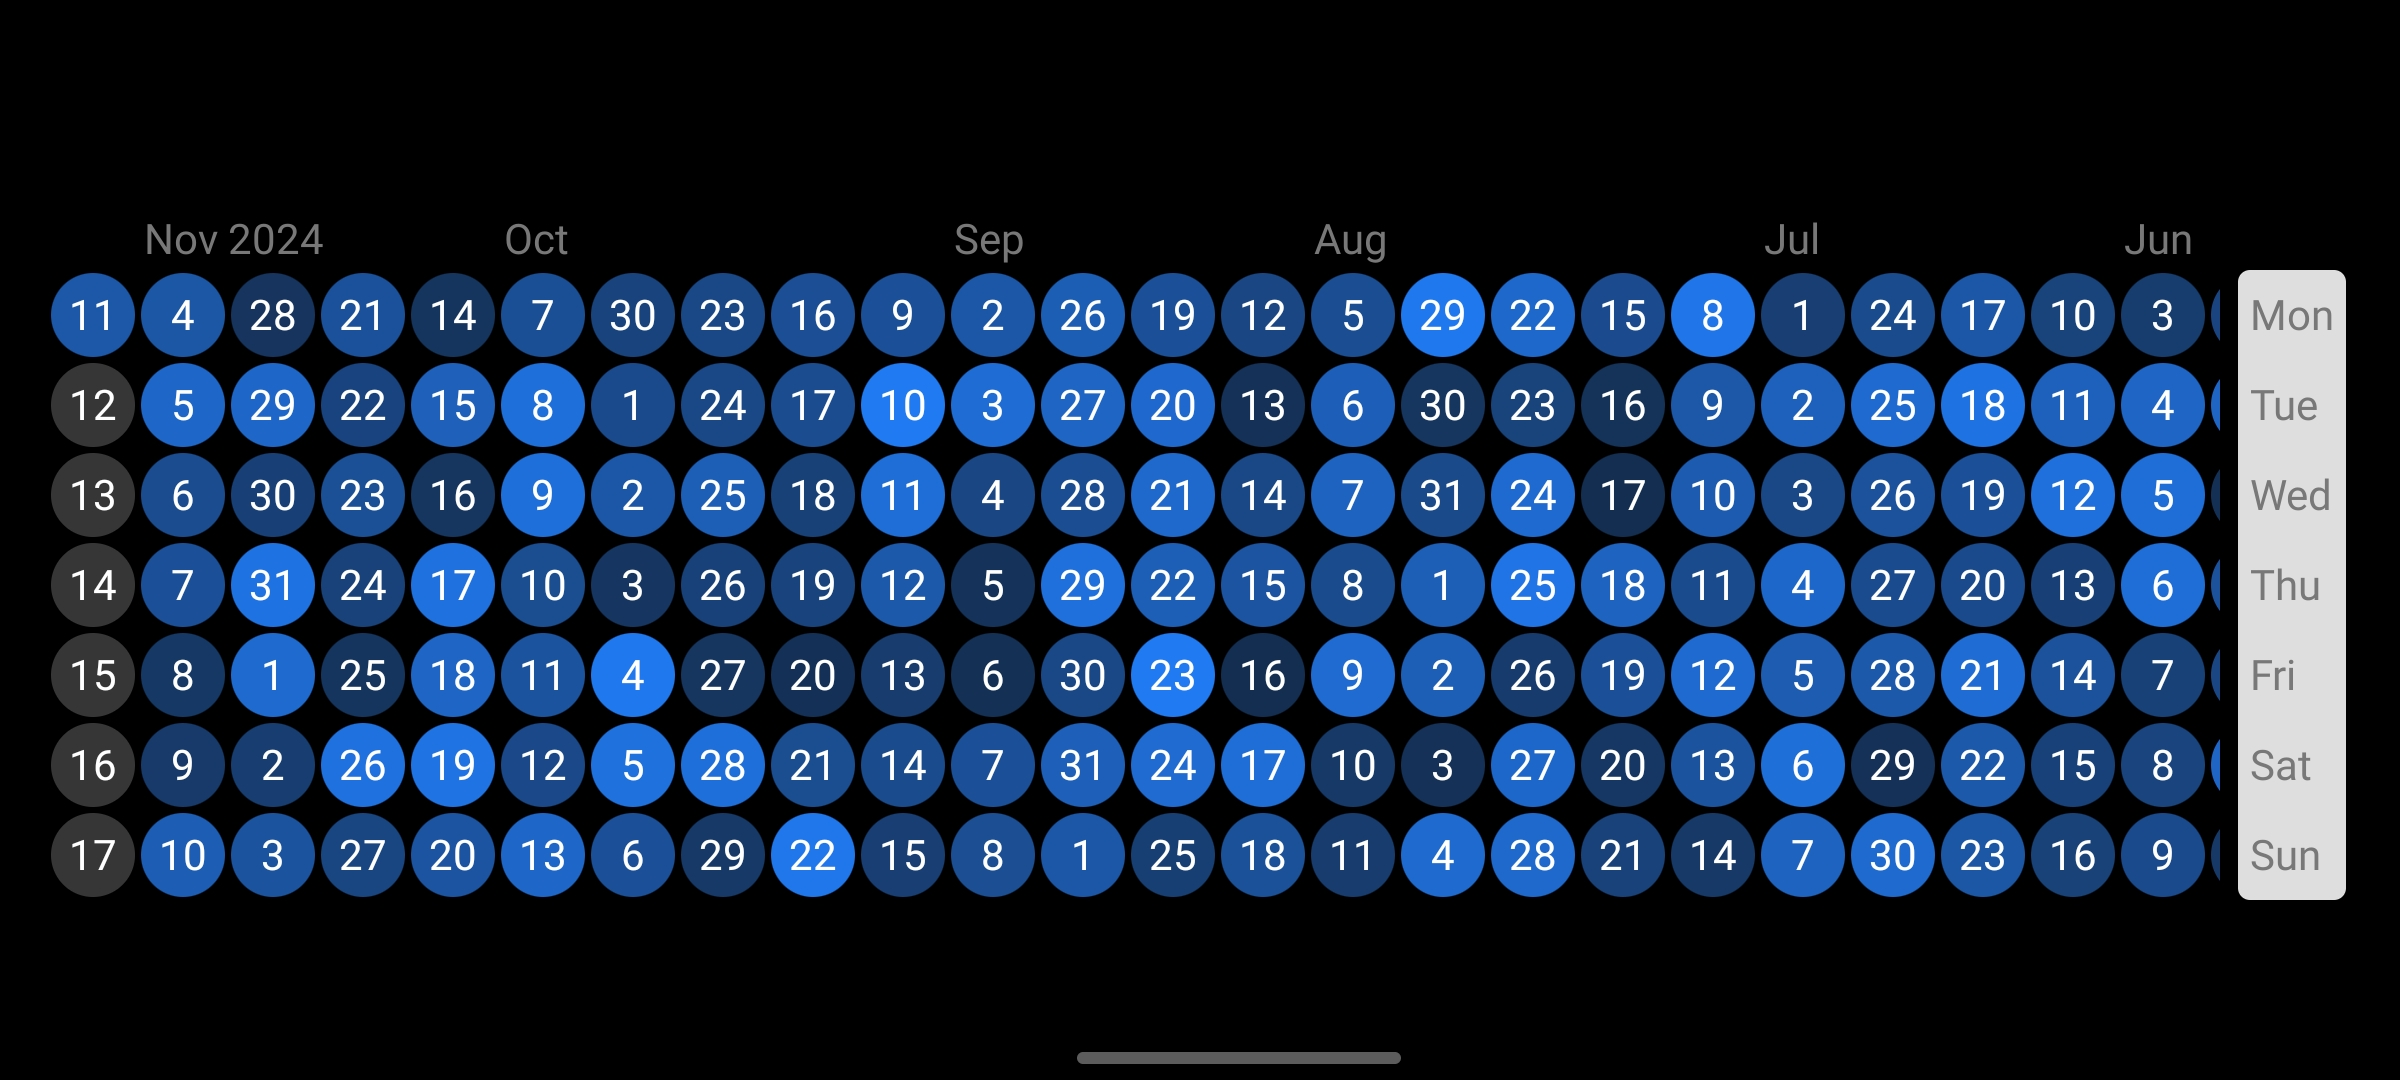
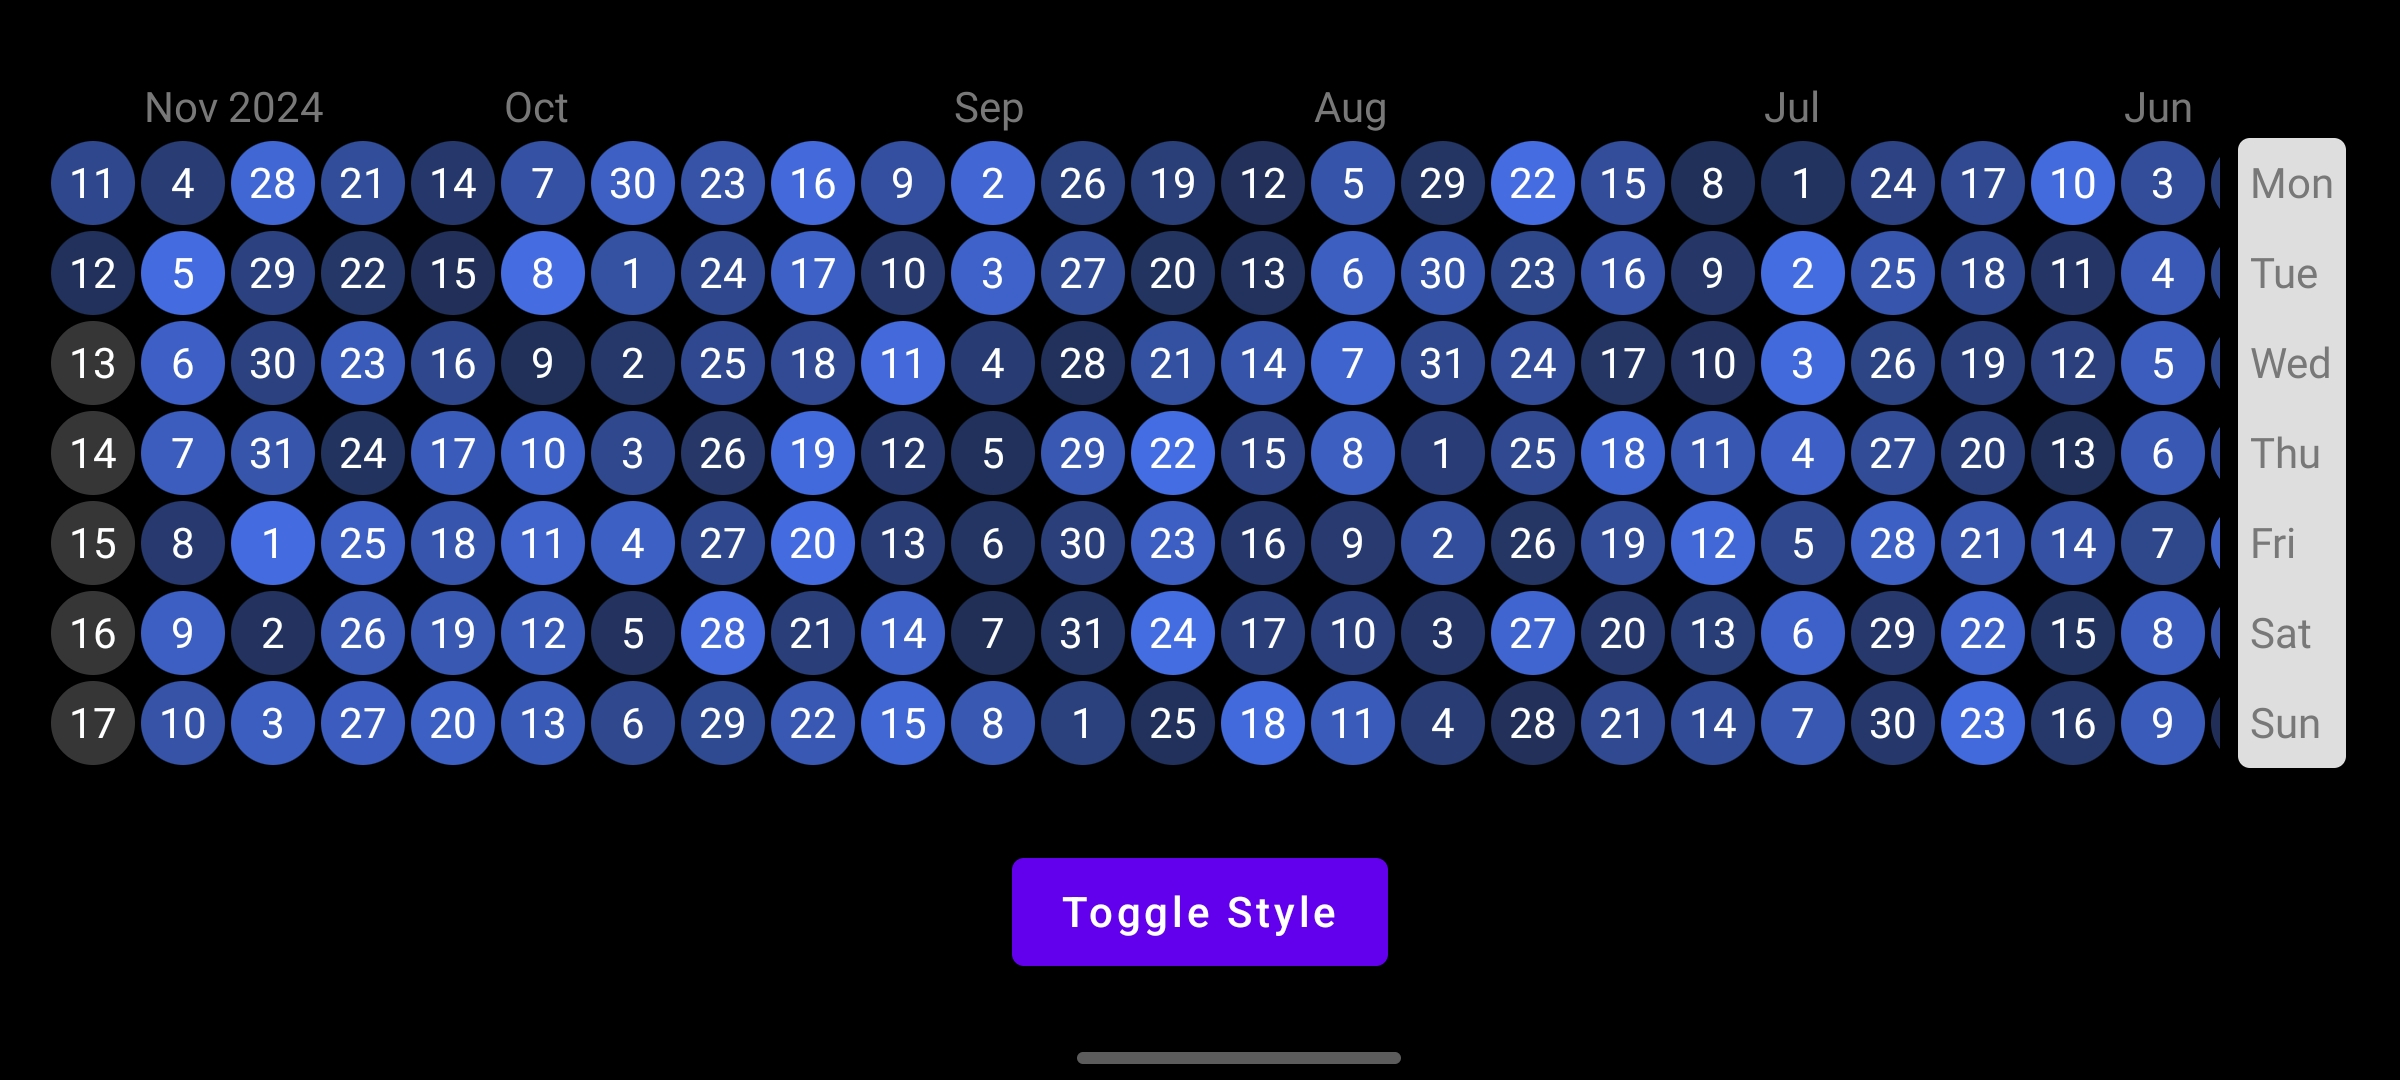
docs: Update README.md

diff --git a/README.md b/README.md
@@ -1,14 +1,15 @@
 # Compose-HeatMap
 
-[![Maven Central](https://img.shields.io/maven-central/v/com.fleeys/heatmap)](https://central.sonatype.com/artifact/com.fleeys/heatmap) ![Android](https://img.shields.io/badge/Platform-Android-brightgreen.svg?logo=android)
+[![Maven Central](https://img.shields.io/maven-central/v/com.fleeys/heatmap)](https://central.sonatype.com/artifact/com.fleeys/heatmap) ![Android](https://img.shields.io/badge/Platform-Android-brightgreen.svg?logo=android) ![Desktop](https://img.shields.io/badge/Platform-Desktop-8A2BE2.svg?logo=openjdk) 
 
 Effortlessly create GitHub-style heatmaps in Jetpack Compose—perfect for visualizing a variety of time-based data patterns.
 
 ## Preview
 
-| Platform |                        Default Style                         |                         Custom Style                         |
-| :------: | :----------------------------------------------------------: | :----------------------------------------------------------: |
-| Android  | ![Android-Default-Style](./images/Android/preview-default.jpg) | ![Android-Custom-Style](./images/Android/preview-custom.jpg) |
+| Platform |                     Default Style                      |                     Custom Style                     |
+| :------: | :----------------------------------------------------: | :--------------------------------------------------: |
+| Android  | ![Default-Style](./images/Android/preview-default.jpg) | ![Custom-Style](./images/Android/preview-custom.jpg) |
+| Desktop  | ![Default-Style](./images/Desktop/preview-default.png) | ![Custom-Style](./images/Desktop/preview-custom.png) |
 
 ## Usage
 
@@ -53,18 +54,27 @@ Works right out of the box without much setup.
 
 @Composable
 fun SampleHeatMap() {
+  var heatMapStyle by remember { mutableStateOf<HeatMapStyle?>(null) }
+  val toggleStyle = { heatMapStyle = if (heatMapStyle == null) CustomHeatMapStyle else null }
+
   Box(
-    Modifier
+    modifier = Modifier
       .fillMaxSize()
       .background(Color.Black)
-      .padding(16.dp),
-    contentAlignment = Alignment.Center
+      .padding(16.dp)
   ) {
     HeatMap(
-      style = HeatMapStyle(),
-      data = generateHeats()
+      style = heatMapStyle ?: HeatMapStyle(),
+      data = generateHeats(),
+    ) { println("Clicked: $it") }
+
+    Button(
+      onClick = toggleStyle,
+      modifier = Modifier
+        .align(Alignment.BottomCenter)
+        .padding(16.dp)
     ) {
-      println("Clicked: $it")
+      Text("Toggle Style")
     }
   }
 }
@@ -100,6 +110,19 @@ data class HeatMapStyle(
   val heatMapPadding: PaddingValues = PaddingValues(0.dp),
   val startFromEnd: Boolean = true
 )
+
+// Sample Custom Style
+// ../sample/src/commonMain/kotlin/com/fleeys/heatmap/sample/CustomHeatMapStyle.kt
+internal val CustomHeatMapStyle = HeatMapStyle().copy(
+  heatStyle = HeatStyle().copy(
+    heatColor = HeatColor().copy(
+      activeLowestColor = Color(0xff212f57),
+      activeHighestColor = Color(0xff456de3),
+    ),
+    heatShape = CircleShape,
+  ),
+  startFromEnd = false
+)
 ```
 
 ### Interactivity
@@ -128,11 +151,11 @@ This project is built on Compose in an attempt to adapt to the Compose Multiplat
 
 The currently adapted platforms are listed below:
 
-| Platform |   State   |                            Sample                            |
-| :------: | :-------: | :----------------------------------------------------------: |
-| Android  |     ✅     | [Android-Sample](./sample/src/androidMain/kotlin/com/fleeys/heatmap/sample/MainActivity.kt) |
-| Desktop  | :clock10: |                         coming soon                          |
-|   ...    |           |                                                              |
+| Platform | State |                            Sample                            |
+| :------: | :---: | :----------------------------------------------------------: |
+| Android  |   ✅   | [Android-Sample](./sample/src/androidMain/kotlin/com/fleeys/heatmap/sample/MainActivity.kt) |
+| Desktop  |   ✅   | [Desktop-Sample](./sample/src/desktopMain/kotlin/com/fleeys/heatmap/sample/Main.kt) |
+|   ...    |       |                                                              |
 
 ## Contribution
 
